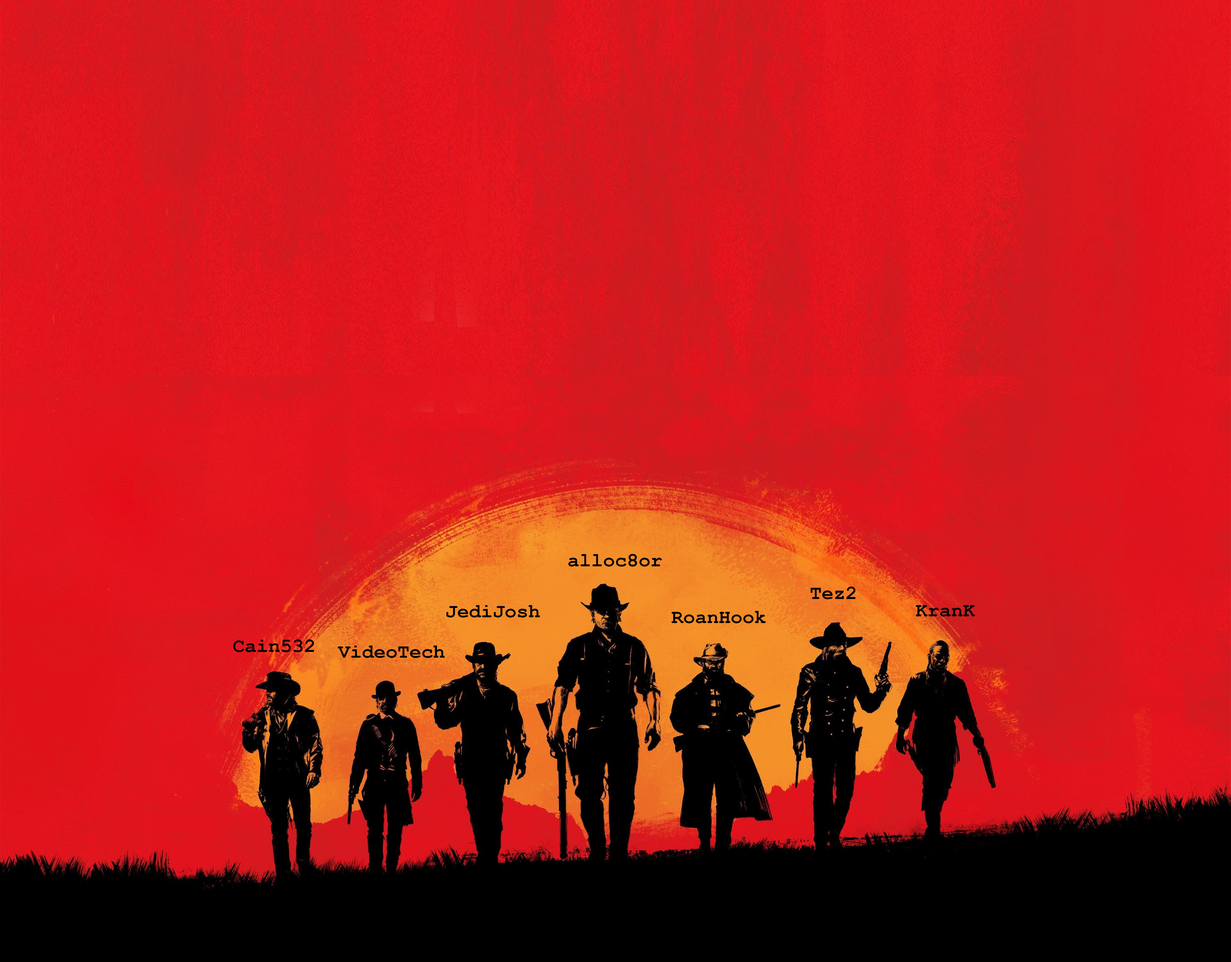
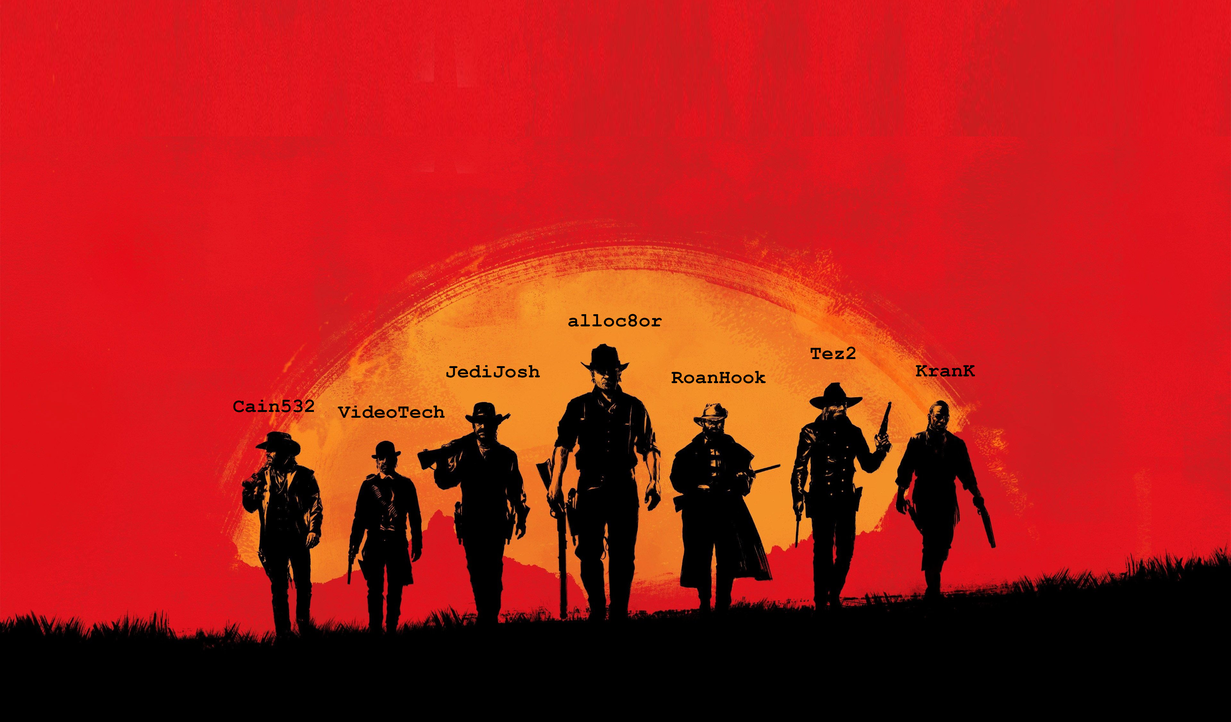
fix 5.1

Changed region(s): [[0.0, 0.3108, 1.0, 0.9325], [0.7812, 0.1243, 0.8125, 0.1865]]

diff --git a/css/style.css b/css/style.css
@@ -15,17 +15,17 @@ div {
     position: absolute;
     background-image: url(../images/RDR2-2.jpg);
     background-repeat: no-repeat;
-    top: 1%;
+    background-attachment: fixed;
+    top: 0;
+    bottom: 0;
     left: 0;
     right: 0;
     width: 100%;
-    -webkit-background-size: cover;
-    -moz-background-size: cover;
-    -o-background-size: cover;
+    
     background-size: 100%;
     z-index: -1;
-    height: 150%;
-    max-height: 3000px;
+    height: 200%;
+    max-height: 10000px;
 }
 
 .body-content {
